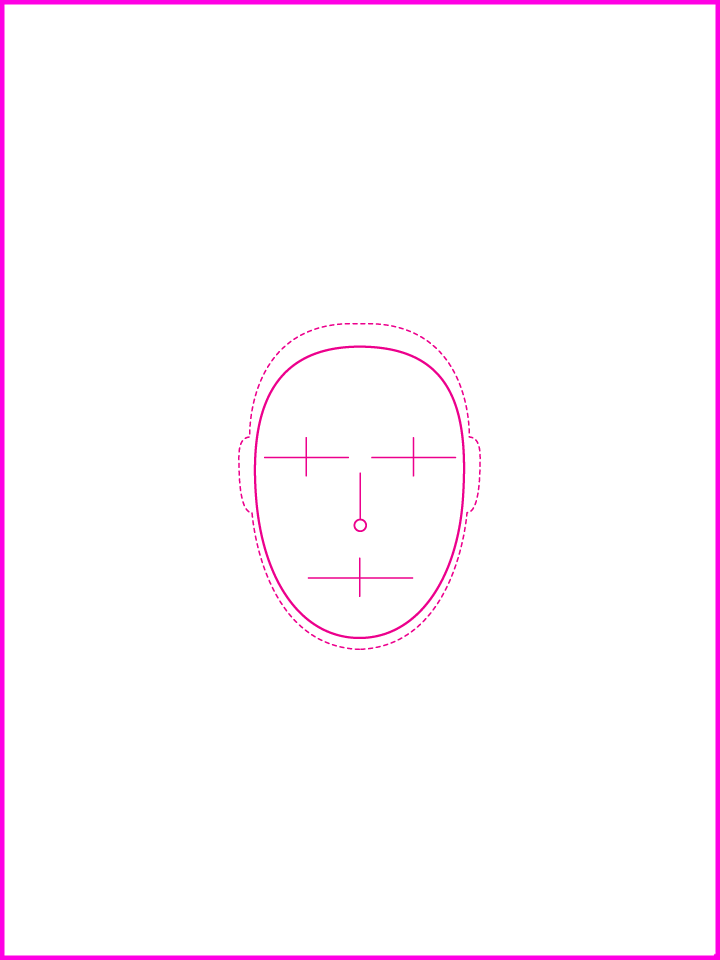
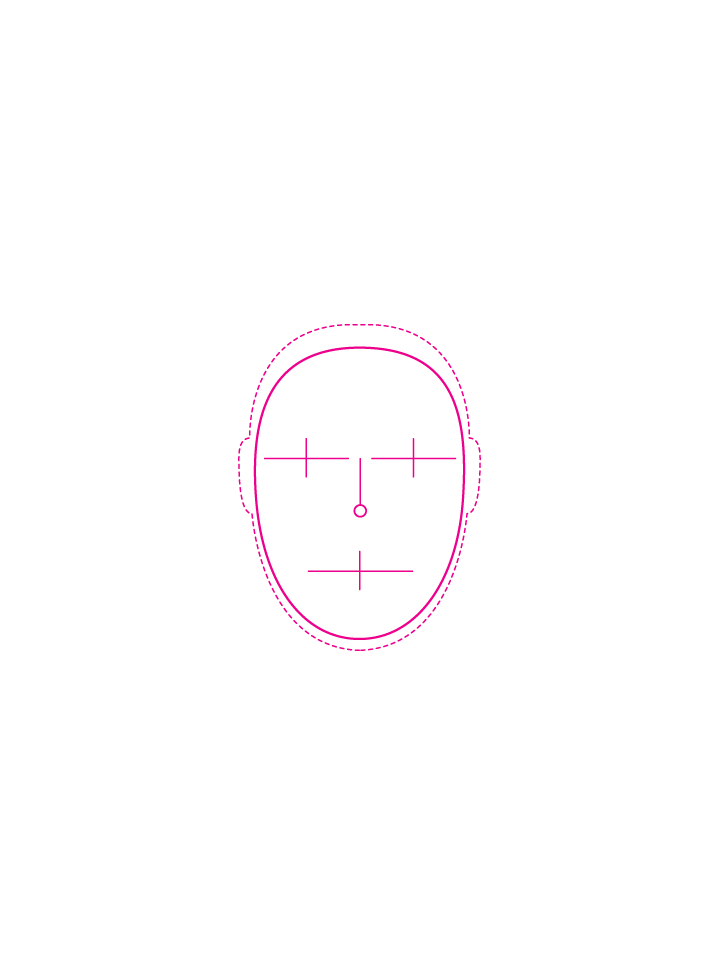
~ solved problem with angular-snap and pageYOffset ~ adjusted width and height for editor container

diff --git a/vendor/css/angular-snap.min.css b/vendor/css/angular-snap.min.css
@@ -1,1 +1,89 @@
-html,body{margin:0;padding:0;width:100%;height:100%;overflow:hidden}snap-content,[snap\:content],[snap-content],[data-snap-content],[x-snap-content],.snap-content,.x-snap-content,snap-drawers,[snap\:drawers],[snap-drawers],[data-snap-drawers],[x-snap-drawers],.snap-drawers,.x-snap-drawers,.snap-drawers,.snap-content{position:absolute;height:auto;top:0;bottom:0;width:auto;left:0;right:0}snap-drawer,[snap\:drawer],[snap-drawer],[data-snap-drawer],[x-snap-drawer],.snap-drawer,.x-snap-drawer,.snap-drawer{position:absolute;height:auto;top:0;bottom:0;overflow:auto;-webkit-transition:top .2s linear;-moz-transition:top .2s linear;-o-transition:top .2s linear;transition:top .2s linear;-webkit-transition:bottom .2s linear;-moz-transition:bottom .2s linear;-o-transition:bottom .2s linear;transition:bottom .2s linear;-webkit-overflow-scrolling:touch;-moz-overflow-scrolling:touch;-o-overflow-scrolling:touch;overflow-scrolling:touch;width:265px}.snap-content{z-index:2;-webkit-transform:translate3d(0,0,0);-moz-transform:translate3d(0,0,0);-o-transform:translate3d(0,0,0);transform:translate3d(0,0,0);overflow:auto;-webkit-overflow-scrolling:touch;-moz-overflow-scrolling:touch;-o-overflow-scrolling:touch;overflow-scrolling:touch}.snap-drawer-left{left:0;z-index:1}.snap-drawer-right{right:0;z-index:1}.snapjs-left .snap-drawer-right,.snapjs-right .snap-drawer-left{display:none}.snapjs-expand-left .snap-drawer-left,.snapjs-expand-right .snap-drawer-right{width:100%}
+html,
+body {
+  margin: 0;
+  padding: 0;
+  width: 100%;
+  height: 100%;
+  overflow: auto;
+}
+snap-content,
+[snap\:content],
+[snap-content],
+[data-snap-content],
+[x-snap-content],
+.snap-content,
+.x-snap-content,
+snap-drawers,
+[snap\:drawers],
+[snap-drawers],
+[data-snap-drawers],
+[x-snap-drawers],
+.snap-drawers,
+.x-snap-drawers,
+.snap-drawers,
+.snap-content {
+  position: absolute;
+  height: auto;
+  min-height: 700px;
+  top: 0;
+  bottom: 0;
+  width: auto;
+  left: 0;
+  right: 0;
+}
+snap-drawer,
+[snap\:drawer],
+[snap-drawer],
+[data-snap-drawer],
+[x-snap-drawer],
+.snap-drawer,
+.x-snap-drawer,
+.snap-drawer {
+  position: absolute;
+  height: auto;
+  top: 0;
+  bottom: 0;
+  overflow: auto;
+  min-height: 700px;
+  -webkit-transition: top 0.2s linear;
+  -moz-transition: top 0.2s linear;
+  -o-transition: top 0.2s linear;
+  transition: top 0.2s linear;
+  -webkit-transition: bottom 0.2s linear;
+  -moz-transition: bottom 0.2s linear;
+  -o-transition: bottom 0.2s linear;
+  transition: bottom 0.2s linear;
+  -webkit-overflow-scrolling: touch;
+  -moz-overflow-scrolling: touch;
+  -o-overflow-scrolling: touch;
+  overflow-scrolling: touch;
+  width: 265px;
+}
+.snap-content {
+  z-index: 2;
+  -webkit-transform: translate3d(0, 0, 0);
+  -moz-transform: translate3d(0, 0, 0);
+  -o-transform: translate3d(0, 0, 0);
+  transform: translate3d(0, 0, 0);
+  /*overflow: scroll;*/
+  -webkit-overflow-scrolling: touch;
+  -moz-overflow-scrolling: touch;
+  -o-overflow-scrolling: touch;
+  overflow-scrolling: touch;
+}
+.snap-drawer-left {
+  left: 0;
+  z-index: 1;
+}
+.snap-drawer-right {
+  right: 0;
+  z-index: 1;
+}
+.snapjs-left .snap-drawer-right,
+.snapjs-right .snap-drawer-left {
+  display: none;
+}
+.snapjs-expand-left .snap-drawer-left,
+.snapjs-expand-right .snap-drawer-right {
+  width: 100%;
+}

diff --git a/app/js/directives/drawing-canvas.js b/app/js/directives/drawing-canvas.js
@@ -41,6 +41,9 @@ angular.module("app").directive('drawingCanvas', function(html5Storage) {
         var isDrawing, lastPoint;
 
         element.bind('mousemove', function (e) {
+            //var yScroll = (element.pageYOffset !== undefined) ? element.pageYOffset : (document.documentElement || document.body.parentNode || document.body).scrollTop;
+            console.log('Y SCROLL:', window.pageYOffset);
+
             if (!isDrawing) { return; }
 
             var currentPoint = { x: e.clientX - element[0].offsetParent.offsetLeft, y: e.clientY - (element[0].offsetParent.offsetTop - window.pageYOffset) };

diff --git a/app/css/main.scss b/app/css/main.scss
@@ -88,6 +88,8 @@ body{
     @include flex(1);
     &.page-editor{
         background-color: none;//white;
+        min-height: 1000px;
+        margin-top: 20px;
     }
     max-width:100%;
     margin:0;
@@ -517,6 +519,8 @@ body{
 .canvasContainer{
     .maskWrap{
         #customMask{
+            width: 720px;
+            height: 964px;
             background: transparent;
             z-index: 999;
             position: relative;

diff --git a/app/js/controllers/drawing_board_ctrl.js b/app/js/controllers/drawing_board_ctrl.js
@@ -87,7 +87,8 @@ angular.module("app").controller('drawingBoardCtrl', function($rootScope, $scope
                 $scope.$apply();
 
             },
-            background: undefined
+            background: undefined,
+            height: 960
         });
 
     };
